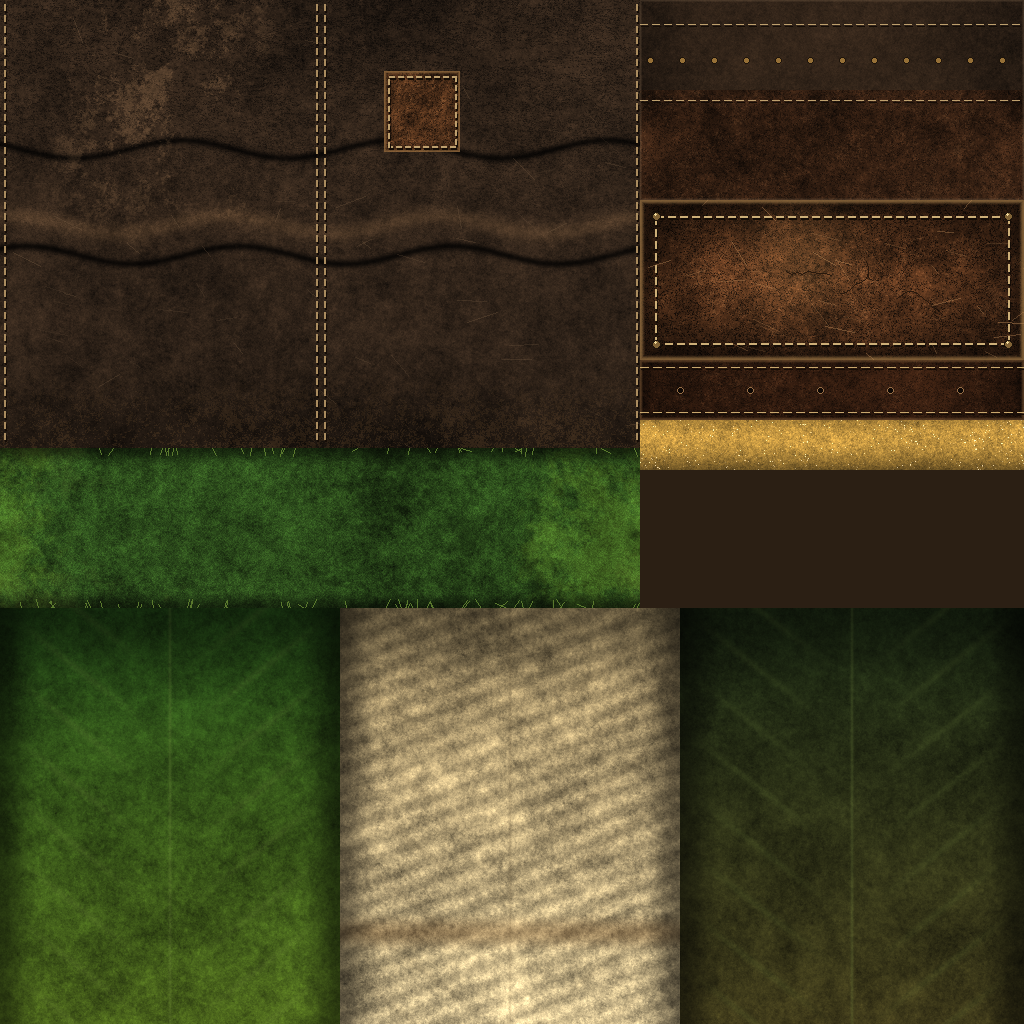
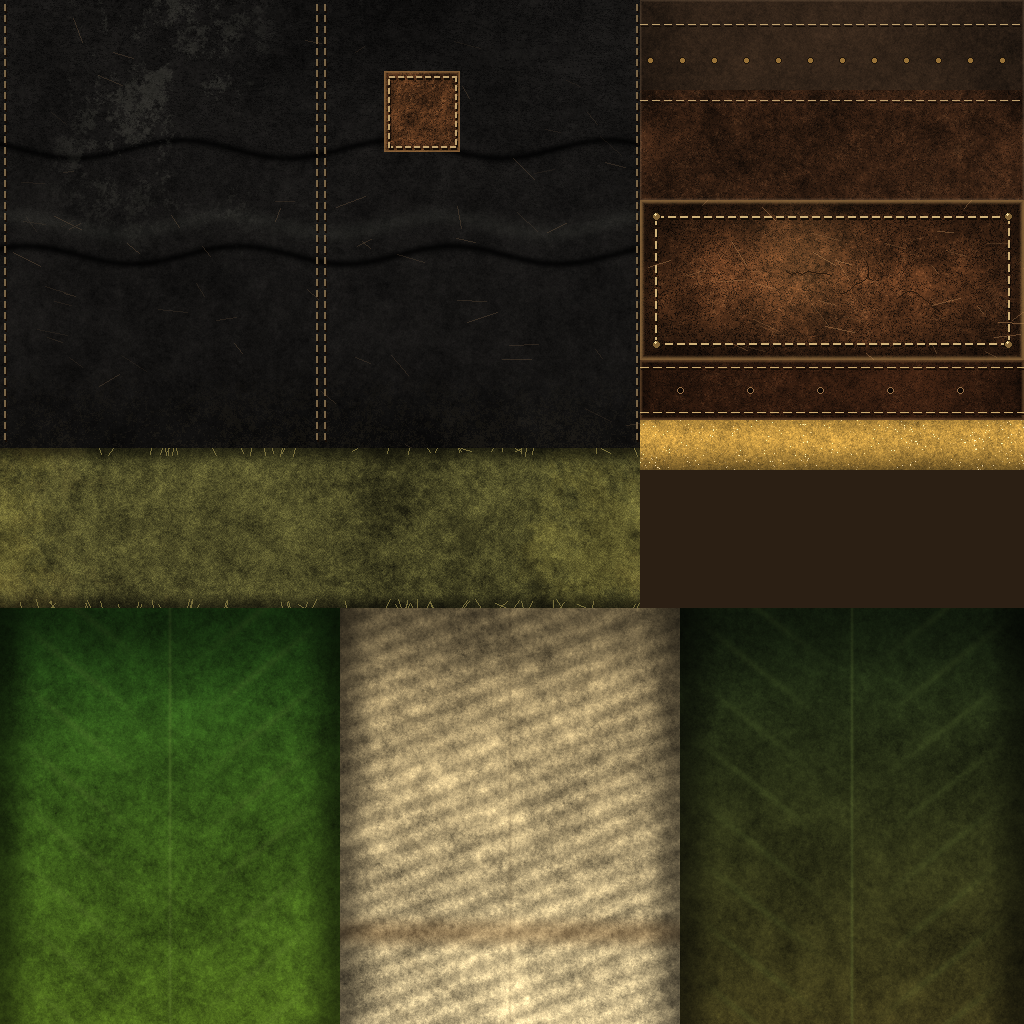
feat(arte): refaz calça do Arqueiro com tecido escuro, joelheiras redondas e ataduras em relevo

Changed region(s): [[0.0, 0.0, 0.625, 0.5938]]

diff --git a/art-src/personagens/arqueiro/pernas_textura.py b/art-src/personagens/arqueiro/pernas_textura.py
@@ -160,7 +160,7 @@ def cinto_furos(im, y, xs, r=3):
 
 # ====================================================================== CALCA
 def pant(w, h):
-    a = cloth(h, w, (0.19, 0.14, 0.10), 0.7)
+    a = cloth(h, w, (0.085, 0.080, 0.075), 0.7)
     uu, tt = coords(h, w)
     # rugas longas de tecido (coxa: diagonais; canela: verticais)
     d1 = fbm(h, w, 1.8, 2.5, 0.7)
@@ -174,18 +174,18 @@ def pant(w, h):
             a *= (1 - v)[..., None]
         elif f < 0:    # bojo claro acima da dobra
             hl = vinco(h, w, t0 + 0.012, 0.03, 0.35, 1.0, z * 20)
-            a += np.array([0.3, 0.22, 0.14], np.float32) * hl[..., None]
+            a += np.array([0.11, 0.115, 0.10], np.float32) * hl[..., None]
     # sujeira na barra e nas dobras, desgaste claro nos joelhos/coxas da frente
     suj = ss(0.22 - tt, 0, 0.22)
-    a = a * (1 - 0.35 * suj)[..., None] + np.array([0.20, 0.14, 0.07], np.float32) * (0.35 * suj * (fbm(h, w, 1.5) > 0.2))[..., None]
+    a = a * (1 - 0.35 * suj)[..., None] + np.array([0.10, 0.085, 0.05], np.float32) * (0.35 * suj * (fbm(h, w, 1.5) > 0.2))[..., None]
     desg = ss(fbm(h, w, 2.4), 0.8, 2.0) * ss(np.cos((uu - 0.25) * math.tau), 0.2, 0.9) * ss(tt, 0.3, 0.7)
-    a += np.array([0.12, 0.09, 0.06], np.float32) * desg[..., None]
+    a += np.array([0.07, 0.07, 0.06], np.float32) * desg[..., None]
     im = to_img(a)
     # costuras: lateral externa (u=.5), interna (u=0/1), remendo na coxa
     for u in (0.5, 0.0):
         x = u * w
         for dx in ([-4, 4] if u == 0.5 else [4, w - 4]):
-            tracejado(im, (x + dx if u == 0.5 else dx, 4), (x + dx if u == 0.5 else dx, h - 4), (170, 140, 95), 6, 5)
+            tracejado(im, (x + dx if u == 0.5 else dx, 4), (x + dx if u == 0.5 else dx, h - 4), (120, 100, 70), 6, 5)
     d = ImageDraw.Draw(im)
     # remendo de couro costurado na coxa (frente-fora)
     px0, py0, px1, py1 = int(w * 0.60), int(h * 0.16), int(w * 0.72), int(h * 0.34)
@@ -224,11 +224,11 @@ def knee(w, h):
 
 
 def wrap(w, h):
-    a = cloth(h, w, (0.17, 0.29, 0.105), 1.3)
+    a = cloth(h, w, (0.30, 0.29, 0.15), 1.3)
     uu, tt = coords(h, w)
     fios = 0.5 + 0.5 * np.sin(uu * w * 0.9 + 6 * fbm(h, w, 2.0))
     a *= (0.88 + 0.22 * fios)[..., None]
-    a += np.array([0.18, 0.22, 0.05], np.float32) * (ss(fbm(h, w, 2.5), 0.5, 2.0) * 0.5)[..., None]
+    a += np.array([0.14, 0.12, 0.04], np.float32) * (ss(fbm(h, w, 2.5), 0.5, 2.0) * 0.5)[..., None]
     a *= (1 - 0.55 * ss(0.12 - np.minimum(tt, 1 - tt), 0, 0.12))[..., None]    # bordas sombreadas (camada sobre camada)
     # sujeira / manchas marrons
     a = a * (1 - 0.3 * ss(fbm(h, w, 2.8), 0.6, 2.0))[..., None] + np.array([0.15, 0.10, 0.05], np.float32) * (0.2 * ss(fbm(h, w, 2.8), 1.0, 2.4))[..., None]
@@ -238,7 +238,7 @@ def wrap(w, h):
     for _ in range(90):   # fios soltos nas bordas
         x = rs.uniform(0, w)
         y0 = 0 if rs.random() < 0.5 else h
-        d.line([(x, y0), (x + rs.normal(0, 4), y0 + (6 if y0 == 0 else -6) * rs.uniform(0.5, 1.5))], fill=(90, 120, 45), width=1)
+        d.line([(x, y0), (x + rs.normal(0, 4), y0 + (6 if y0 == 0 else -6) * rs.uniform(0.5, 1.5))], fill=(120, 110, 60), width=1)
     return from_img(im)
 
 

diff --git a/art-src/personagens/arqueiro/pernas_geo.py b/art-src/personagens/arqueiro/pernas_geo.py
@@ -228,7 +228,7 @@ def rad_calca(z):
     return interp(PR, z, 1) * 1.0, interp(PR, z, 2) * 1.0
 
 
-def ataduras(M, sx, rng, z0=0.245, z1=0.335, voltas=2.4, passos=26, larg=0.034):
+def ataduras(M, sx, rng, z0=0.245, z1=0.335, voltas=2.2, passos=20, larg=0.036):
     """Faixa verde enrolada em espiral na canela (mais folgada que a calca)."""
     aneis = []
     for k in range(passos + 1):
@@ -239,15 +239,15 @@ def ataduras(M, sx, rng, z0=0.245, z1=0.335, voltas=2.4, passos=26, larg=0.034):
         rx, ry = rad_calca(z)
         off = 0.009 + 0.002 * math.sin(s * 25 + sx)
         par = []
-        for dz in (-larg / 2, larg / 2):
+        for dz, bojo in ((-larg / 2, -0.002), (0.0, 0.004), (larg / 2, -0.002)):
             zz = z + dz
-            r = (rx + off, ry + off)
+            r = (rx + off + bojo, ry + off + bojo)
             p = pt(th, cx, cy, zz, r[0], r[1])
             par.append((sx * p[0], p[1], p[2]))
         aneis.append(par)
 
     def uvf(i, j):
-        return uvmap(CALCA["WRAP"], i / passos, j)
+        return uvmap(CALCA["WRAP"], i / passos, j / 2)
     M.grade(aneis, uvf, "wrap", False, True, fora=lambda p: Vector((sx * cl_calca(p.z)[0], cl_calca(p.z)[1], p.z)))
 
 
@@ -302,7 +302,7 @@ def pelvis(M, rng):
 
 def saia_penas(M, rng):
     """Barra de penas/folhas: lâminas de pontas variadas, comprimentos e larguras diferentes, duas camadas."""
-    camadas = [(22, 0.0, 0.0), (20, 0.5, 0.012)]
+    camadas = [(20, 0.0, 0.0), (8, 0.5, 0.012)]
     for n, fase, drop in camadas:
         for k in range(n):
             a = TAU * (k + fase + rng.uniform(-0.28, 0.28)) / n
@@ -352,9 +352,9 @@ def construir_calca(seed=7):
         perna(M, sx, rng)
         ataduras(M, sx, rng)
         # joelheira (frente do joelho)
-        placa(M, sx, -math.pi * 0.5 - 0.62, -math.pi * 0.5 + 0.62, 0.315, 0.405, 4, 3, 0.012, 0.010, "KNEE", "knee",
+        placa(M, sx, -math.pi * 0.5 - 0.62, -math.pi * 0.5 + 0.62, 0.315, 0.405, 5, 4, 0.014, 0.014, "KNEE", "knee",
               CALCA["KNEE"], cl_calca, rad_calca,
-              forma=lambda u: (0.318 + 0.012 * math.sin(u * math.pi), 0.402 - 0.012 * (1 - math.sin(u * math.pi))))
+              forma=lambda u: (0.315 + 0.045 * (1 - math.sin(u * math.pi) ** 0.6), 0.405 - 0.045 * (1 - math.sin(u * math.pi) ** 0.6)))
         # cintas de couro na atadura (base e topo) + fivela
         cinta(M, sx, 0.243, 0.016, 0.014, CALCA["STRAP"], "strapc", cl_calca, rad_calca)
         cinta(M, sx, 0.338, 0.016, 0.014, CALCA["STRAP"], "strapc", cl_calca, rad_calca)

diff --git a/art-src/personagens/arqueiro/pernas_atlas.py b/art-src/personagens/arqueiro/pernas_atlas.py
@@ -23,9 +23,9 @@ def uvmap(rect, u, t):
 # calca: centro da perna esquerda por altura z (x, y) e raios (rx, ry)
 Z_HEM, Z_TOP = 0.20, 0.56
 PANT_Z = [0.20, 0.235, 0.27, 0.305, 0.335, 0.355, 0.375, 0.405, 0.44, 0.48, 0.52, 0.56]
-CREASE = {0.355: 0.94, 0.375: 1.07, 0.44: 0.96, 0.48: 1.05}  # fator de raio por anel (dobras)
+CREASE = {0.355: 0.92, 0.375: 1.09, 0.44: 0.94, 0.48: 1.07}  # fator de raio por anel (dobras)
 CL = [(0.07, 0.155, 0.066), (0.12, 0.157, 0.066), (0.16, 0.157, 0.050), (0.20, 0.158, 0.042), (0.24, 0.155, 0.037), (0.30, 0.148, 0.033),
       (0.34, 0.140, 0.040), (0.38, 0.134, 0.057), (0.42, 0.130, 0.068), (0.46, 0.122, 0.076), (0.50, 0.123, 0.081), (0.55, 0.112, 0.080), (0.62, 0.110, 0.080)]
-PR = [(0.20, 0.070, 0.072), (0.25, 0.074, 0.076), (0.30, 0.080, 0.082), (0.34, 0.092, 0.100), (0.40, 0.100, 0.118),
-      (0.47, 0.105, 0.125), (0.53, 0.108, 0.128), (0.56, 0.110, 0.130)]
+PR = [(0.20, 0.070, 0.072), (0.25, 0.074, 0.076), (0.30, 0.080, 0.082), (0.34, 0.092, 0.100), (0.40, 0.103, 0.121),
+      (0.47, 0.113, 0.131), (0.53, 0.108, 0.128), (0.56, 0.110, 0.130)]
 PELV_C = (0.0, 0.08)
